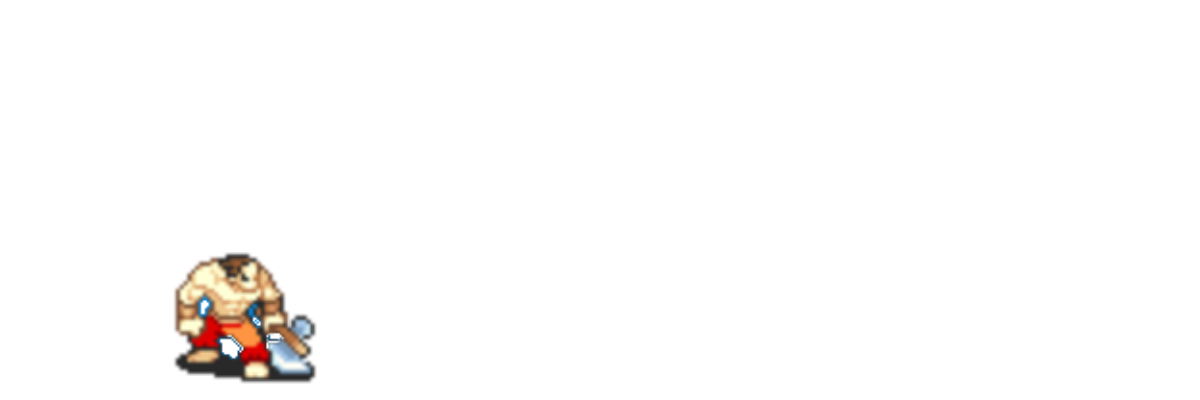
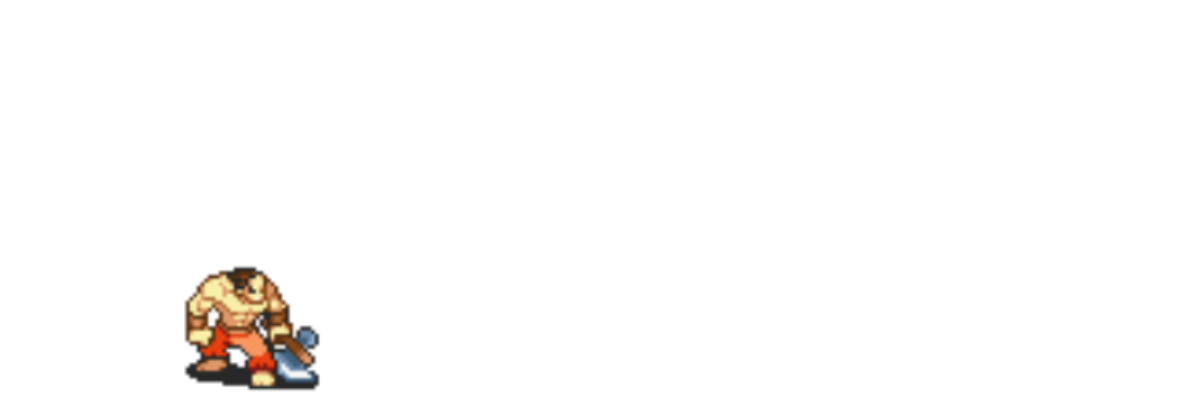
Brigand Animation Complete

Changed region(s): [[0.1233, 0.63, 0.2775, 0.99]]

diff --git a/main.py b/main.py
@@ -91,7 +91,7 @@ allies = [] #allies
 bandit0 = Brigand("Bandit",0,0,
                   {"lv":1,"stren":5,"defen":2,"skl":3,"lck":0,
                    "spd":3,"con":8,"move":5,"res":0,"hp":28,"maxhp":28},{},[iron_axe.getInstance()],{"Axe":200},
-                {"Axe":([],0),"Axecrit":([],0),"stand":brigandStandSprite},10)
+                {"Axe":(brigandAttackSprite,9),"Axecrit":(brigandCritSprite,11),"stand":brigandStandSprite},10)
 enemies = []
 #----CHAPTERS----#
 #MAPS

diff --git a/fesprites.py b/fesprites.py
@@ -11,3 +11,7 @@ yoyoCritSprite = [image.load("images/Yoyo/YoyoCritFrame"+str(i+1)+".png")
 
 #ENEMIES
 brigandStandSprite = image.load("images/Brigand/BrigandAttackFrame1.png")
+brigandAttackSprite = [image.load("images/Brigand/BrigandAttackFrame"+str(i+1)+".png")
+                       for i in range(14)]
+brigandCritSprite = [image.load("images/Brigand/BrigandCritFrame"+str(i+1)+".png")
+                     for i in range(2)] + brigandAttackSprite
